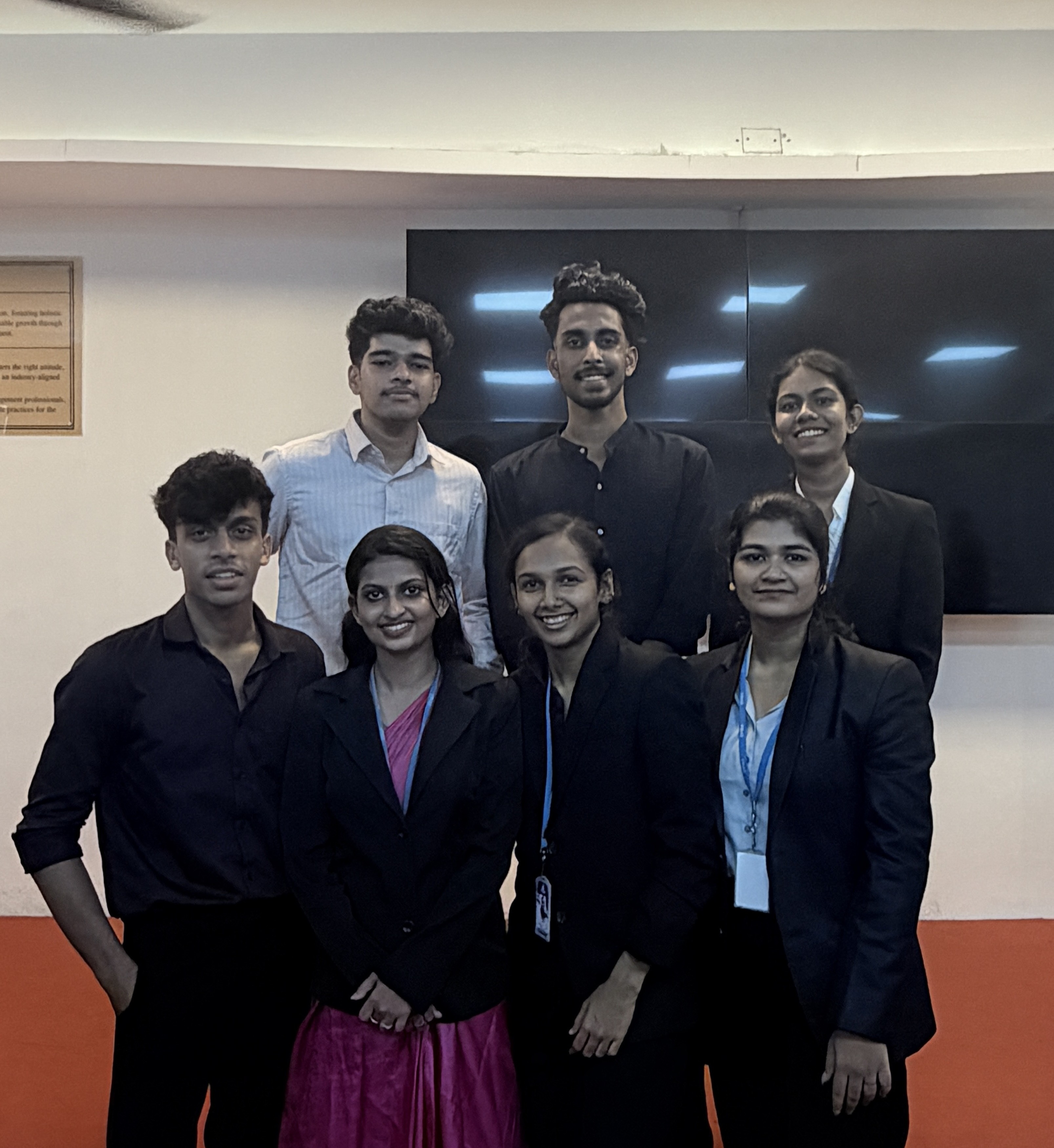
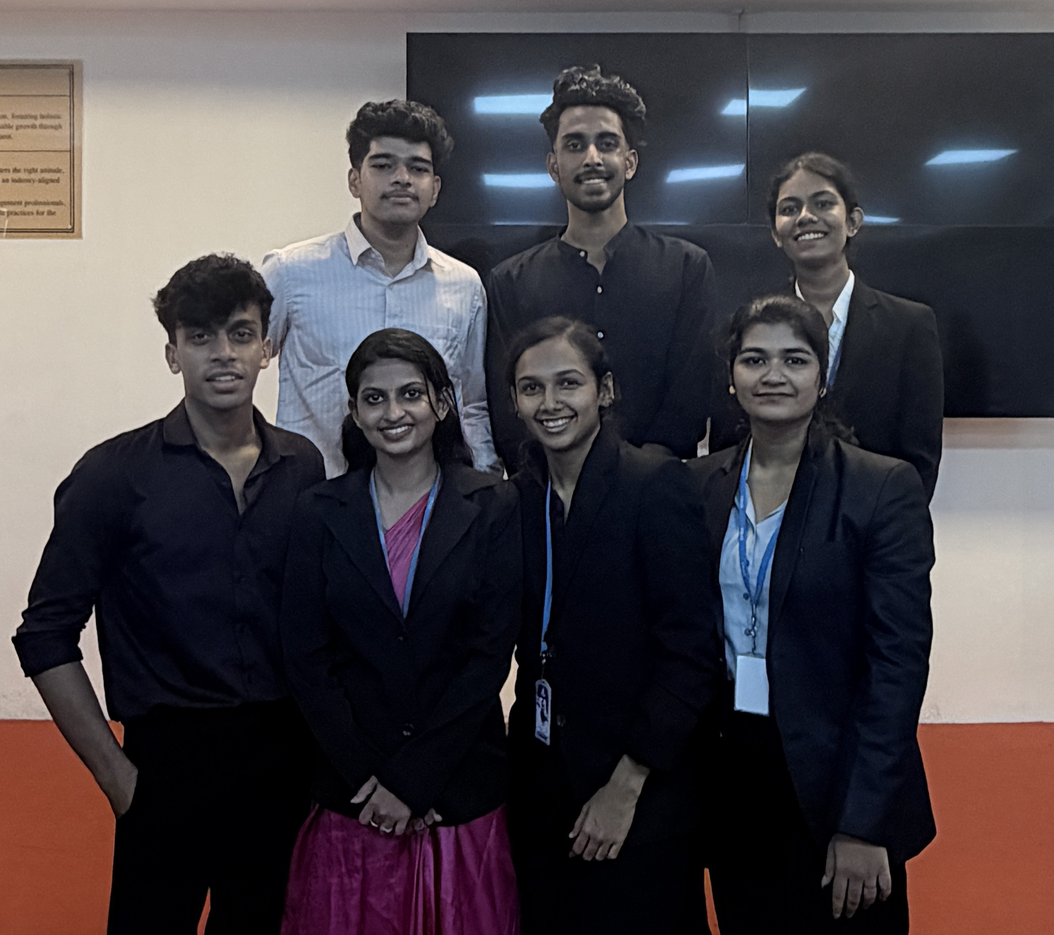
fix: tighter crop on upper ceiling and pin cover photo to top so all faces are completely visible

diff --git a/src/components/Hero.jsx b/src/components/Hero.jsx
@@ -18,10 +18,10 @@ export default function Hero() {
         position: 'relative',
         minHeight: '100vh',
         display: 'flex',
-        alignItems: 'center',
+        alignItems: 'flex-end',
         justifyContent: 'center',
-        paddingTop: '6rem',
-        paddingBottom: '4rem',
+        paddingTop: 'clamp(6rem, 16vh, 12rem)',
+        paddingBottom: '3.5rem',
         overflow: 'hidden',
       }}
     >
@@ -41,9 +41,9 @@ export default function Hero() {
             width: '100%',
             height: '100%',
             objectFit: 'cover',
-            objectPosition: 'center 14%',
-            filter: isDark ? 'brightness(0.68) contrast(1.1)' : 'brightness(0.62) contrast(1.08)',
-            transform: 'scale(1.03)',
+            objectPosition: 'center top',
+            filter: isDark ? 'brightness(0.82) contrast(1.08)' : 'brightness(0.78) contrast(1.05)',
+            transform: 'scale(1.02)',
             transition: 'all 0.4s ease',
           }}
         />
@@ -54,8 +54,8 @@ export default function Hero() {
             position: 'absolute',
             inset: 0,
             background: isDark
-              ? 'linear-gradient(180deg, rgba(18, 22, 20, 0.78) 0%, rgba(18, 22, 20, 0.45) 28%, rgba(18, 22, 20, 0.7) 65%, #222724 100%)'
-              : 'linear-gradient(180deg, rgba(28, 33, 30, 0.8) 0%, rgba(28, 33, 30, 0.48) 28%, rgba(28, 33, 30, 0.74) 65%, #2B312E 100%)',
+              ? 'linear-gradient(180deg, rgba(18, 22, 20, 0.4) 0%, rgba(18, 22, 20, 0.15) 25%, rgba(18, 22, 20, 0.65) 55%, #222724 100%)'
+              : 'linear-gradient(180deg, rgba(28, 33, 30, 0.42) 0%, rgba(28, 33, 30, 0.18) 25%, rgba(28, 33, 30, 0.7) 55%, #2B312E 100%)',
             pointerEvents: 'none',
           }}
         />
@@ -65,7 +65,7 @@ export default function Hero() {
           style={{
             position: 'absolute',
             inset: 0,
-            background: 'radial-gradient(circle at 50% 38%, transparent 22%, rgba(14, 18, 16, 0.78) 100%)',
+            background: 'radial-gradient(circle at 50% 30%, transparent 35%, rgba(14, 18, 16, 0.75) 100%)',
             pointerEvents: 'none',
           }}
         />
